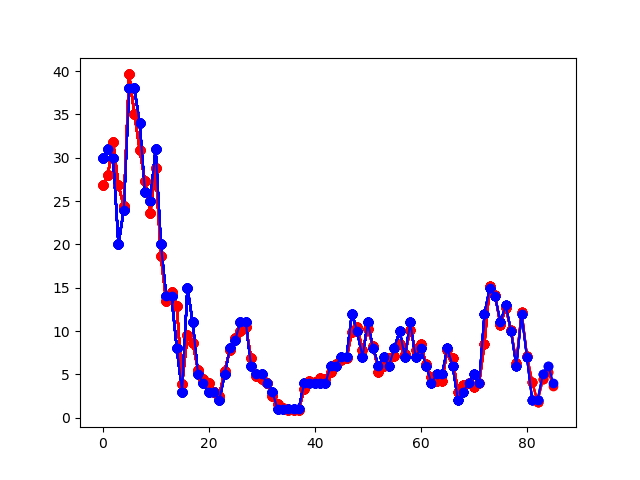
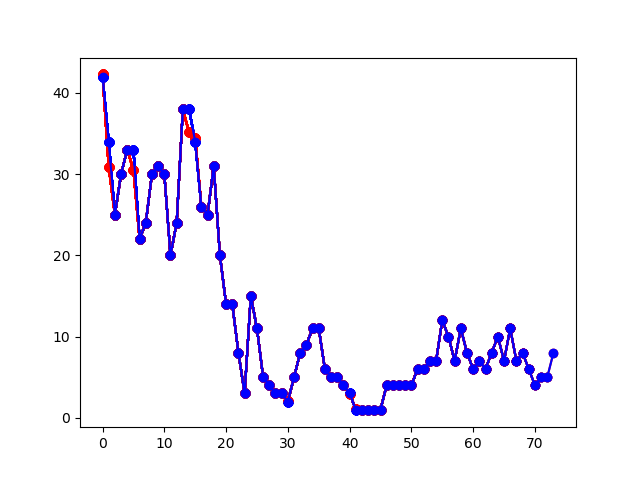
修正了start和deep的bug~~删除了不需要的注释~~

diff --git a/run.py b/run.py
@@ -1,22 +1,21 @@
 import numpy as np
 
 np.random.seed(1337)  # for reproducibility
-from sklearn.datasets import load_boston
-from sklearn.model_selection import train_test_split
+# from sklearn.model_selection import train_test_split
 from sklearn.metrics.regression import r2_score, mean_squared_error
 from sklearn.preprocessing import MinMaxScaler
 # import GridSearchCV
-import os
-import sys
+
 import xlrd
 import math
 import matplotlib.pyplot as plt
 
+import os
+import sys
+
 path_DBN = os.path.join(os.path.dirname(os.path.abspath(__file__)), "deep-belief-network")
 sys.path.append(path_DBN)
 from dbn.tensorflow import SupervisedDBNRegression
-
-# from dbn. import SupervisedDBNClassification
 
 path_data = "data/data.xls"
 path_out_txt = "out/out.txt"
@@ -39,13 +38,15 @@ weather = np.array(weather)
 use_min_max_scaler = True
 use_all_data = True
 step = 2
-train_start = 10
-train_deep = 10
+train_deep = 3
+train_start = 4
+predict_start = 4
 
 print_log = True
 
 assert step > 0
-assert train_deep > 1 and train_start >= train_deep
+assert train_deep > step and train_start >= train_deep
+assert predict_start >= train_start
 
 regressor = SupervisedDBNRegression(hidden_layers_structure=[100],
                                     learning_rate_rbm=0.01,
@@ -81,7 +82,7 @@ for i in range(step + 1, data_num):
     Target = np.row_stack((Target, pm25[i]))
 
     # training
-    if i > step + train_deep:
+    if i > train_start:
         if use_min_max_scaler:
             tmp_data = min_max_scaler.fit_transform(Data[i - train_deep:i])
         else:
@@ -92,7 +93,7 @@ for i in range(step + 1, data_num):
         regressor.fit(tmp_data, Target[i - train_deep:i, 0])
 
     # predicting
-    if i > step + train_start:
+    if i > predict_start:
         if use_min_max_scaler:
             train_data_last = train_data_last.reshape((1, train_data_last.size))
             tmp_test = min_max_scaler.transform(train_data_last)
@@ -100,63 +101,14 @@ for i in range(step + 1, data_num):
             tmp_test = train_data_last
 
         tmp_pred = regressor.predict(tmp_test)
-        # print(tmp_pred[0][0])
-        # print(pm25[i])
         with open(path_out_txt, 'a') as f:  # 如果filename不存在会自动创建， 'w'表示写数据，写之前会清空文件中的原有数据！
             loss = math.sqrt(math.pow(tmp_pred[0][0] - pm25[i], 2)) / pm25[i]
             loss_total += loss
-            f.write("%f\t%f\t%f\t%f\n" % (tmp_pred[0][0], pm25[i], loss, loss_total / (i - step - train_start)))
+            f.write("%f\t%f\t%f\t%f\n" % (tmp_pred[0][0], pm25[i], loss, loss_total / (i - predict_start)))
         predict.append(tmp_pred[0][0])
         correct.append(pm25[i])
-        plt.plot(range(i - step - train_start), predict, 'r-o', range(i - step - train_start), correct, 'b-o')
+        plt.plot(range(i - predict_start), predict, 'r-o', range(i - predict_start), correct, 'b-o')
         plt.savefig(path_out_png)
 
 if print_log:
     print('Done.\nR-squared: %f\nMSE: %f' % (r2_score(correct, predict), mean_squared_error(correct, predict)))
-# X = Data
-# Y = Target[:, 0]
-# print(X.shape)
-# print(Y.shape)
-
-'''
-Data = np.concatenate((pm25, temperature, wind, weather, moisture), axis=0)
-Data = Data.reshape((738, 5))
-print(Data.shape)
-print(pm25[0].shape)
-X = Data
-Y = pm25
-'''
-
-'''
-    # Loading dataset
-    boston = load_boston()
-    X, Y = boston.data, boston.target
- '''
-
-'''
-# Splitting data
-# X_train, X_test, Y_train, Y_test = train_test_split(X, Y, test_size=0.2, random_state=1337)
-X_train, X_test, Y_train, Y_test = train_test_split(X, Y, test_size=0.25, random_state=1337)
-
-# Data scaling
-min_max_scaler = MinMaxScaler()
-if use_min_max_scaler:
-    X_train = min_max_scaler.fit_transform(X_train)
-
-# Training
-# regressor = GridSearchCV(``````).best_estimator_
-regressor = SupervisedDBNRegression(hidden_layers_structure=[100],
-                                    learning_rate_rbm=0.01,
-                                    learning_rate=0.01,
-                                    n_epochs_rbm=20,
-                                    n_iter_backprop=200,
-                                    batch_size=16,
-                                    activation_function='relu')
-regressor.fit(X_train, Y_train)
-
-# Test
-if use_min_max_scaler:
-    X_test = min_max_scaler.transform(X_test)
-Y_pred = regressor.predict(X_test)
-print('Done.\nR-squared: %f\nMSE: %f' % (r2_score(Y_test, Y_pred), mean_squared_error(Y_test, Y_pred)))
-'''
